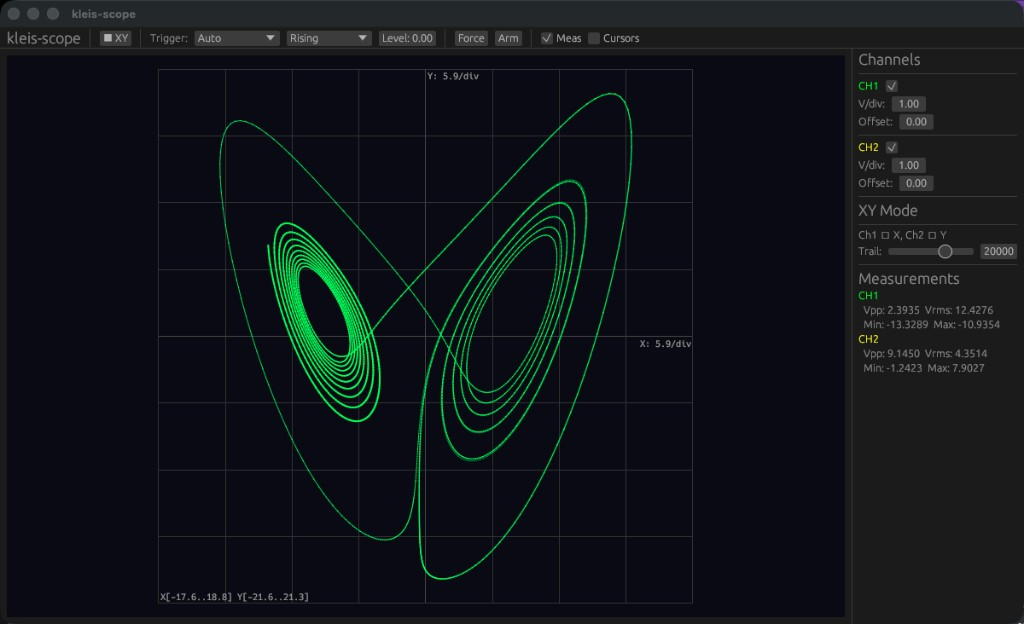
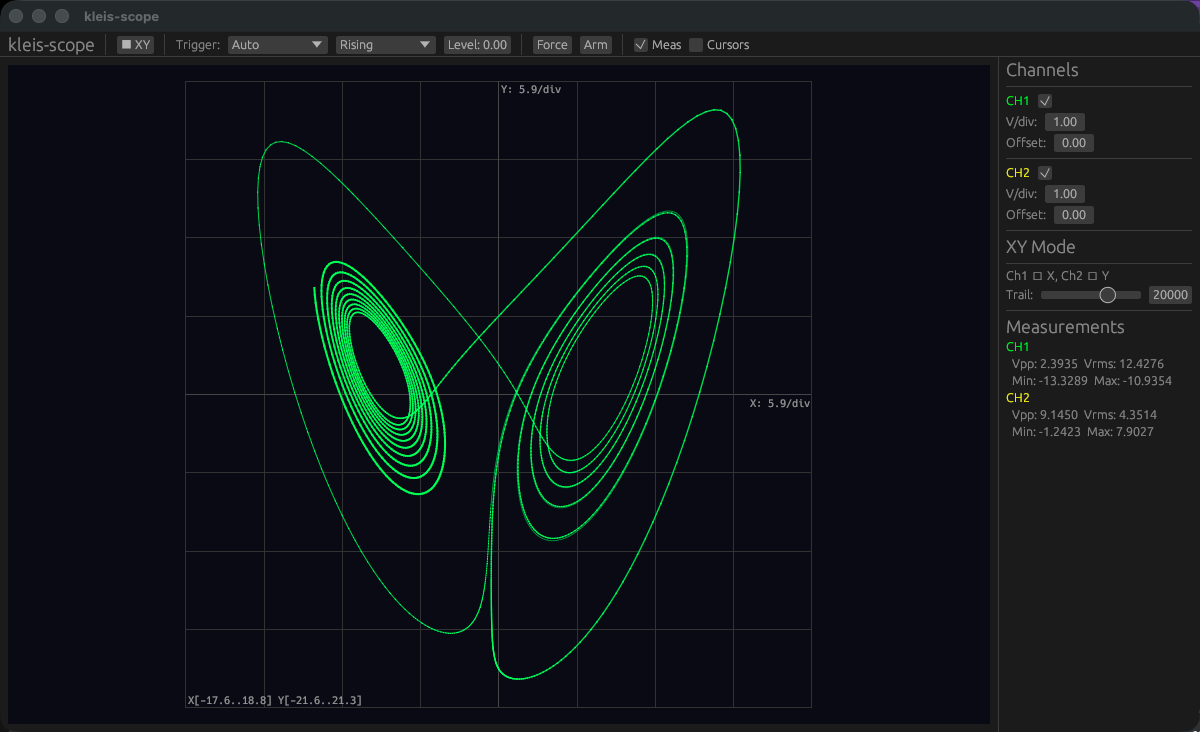
Replace screenshots with high-resolution versions

diff --git a/scripts/generate_test_signal.py b/scripts/generate_test_signal.py
@@ -1,0 +1,17 @@
+#!/usr/bin/env python3
+"""Generate a 2-channel test signal for kleis-scope.
+
+Usage:
+    python3 scripts/generate_test_signal.py | ./target/release/kleis-scope --stdin --channels 2 --rate 10000
+"""
+import math
+
+SAMPLE_RATE = 10000
+DURATION_SECONDS = 10
+NUM_SAMPLES = SAMPLE_RATE * DURATION_SECONDS
+
+for i in range(NUM_SAMPLES):
+    t = i / SAMPLE_RATE
+    ch1 = math.sin(2 * math.pi * 100 * t)
+    ch2 = 0.5 * math.sin(2 * math.pi * 250 * t + 0.3)
+    print(f"{ch1:.6f},{ch2:.6f}")